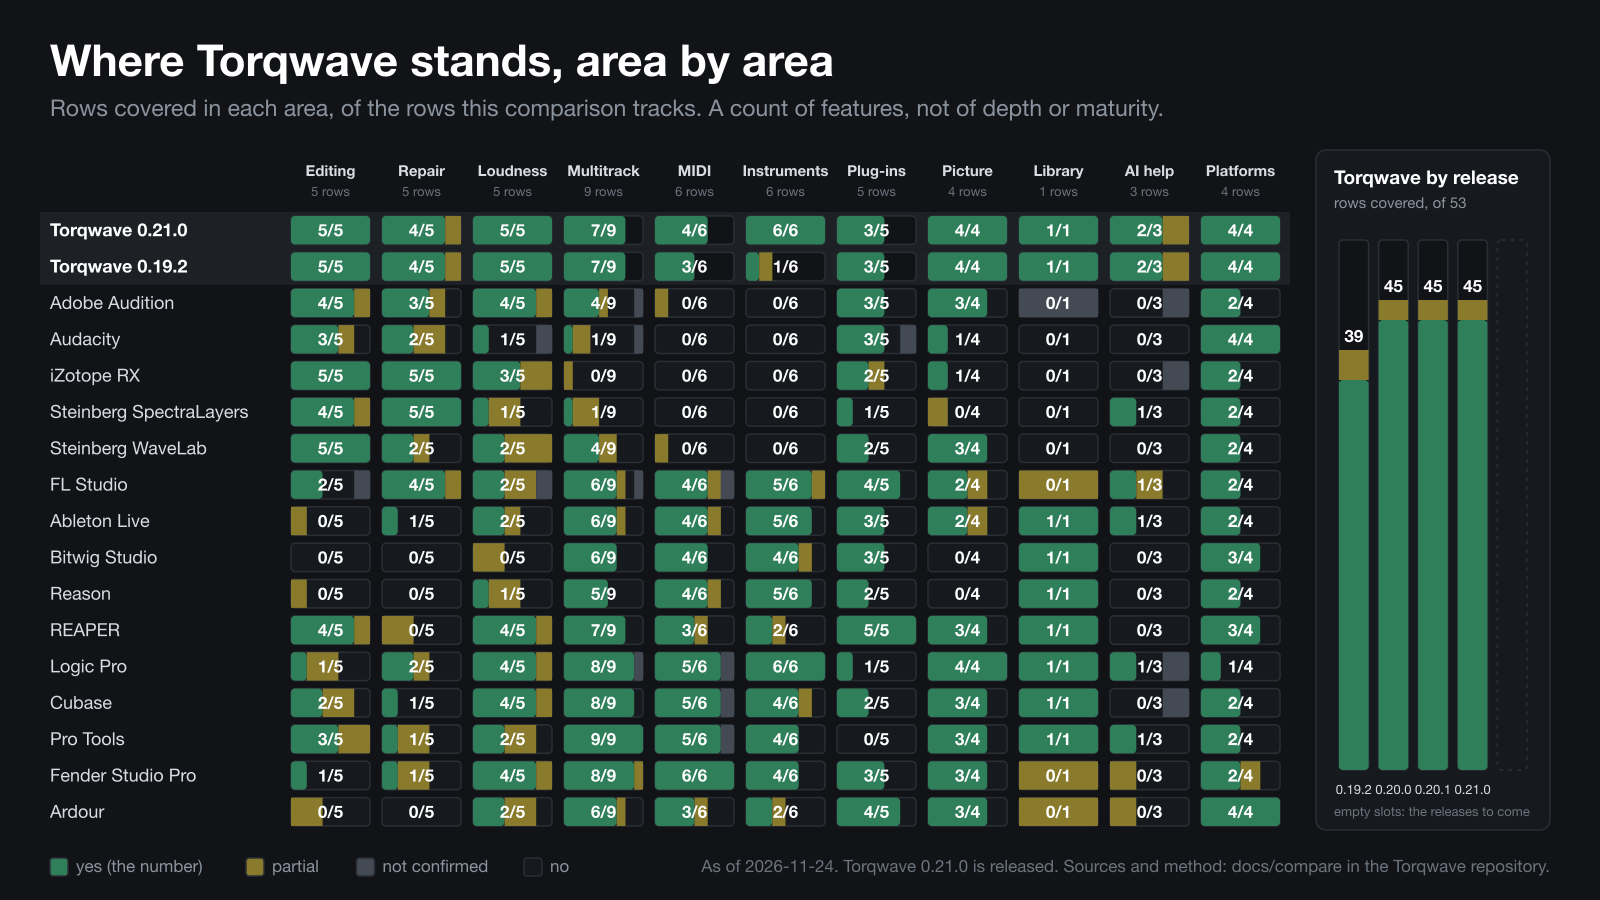
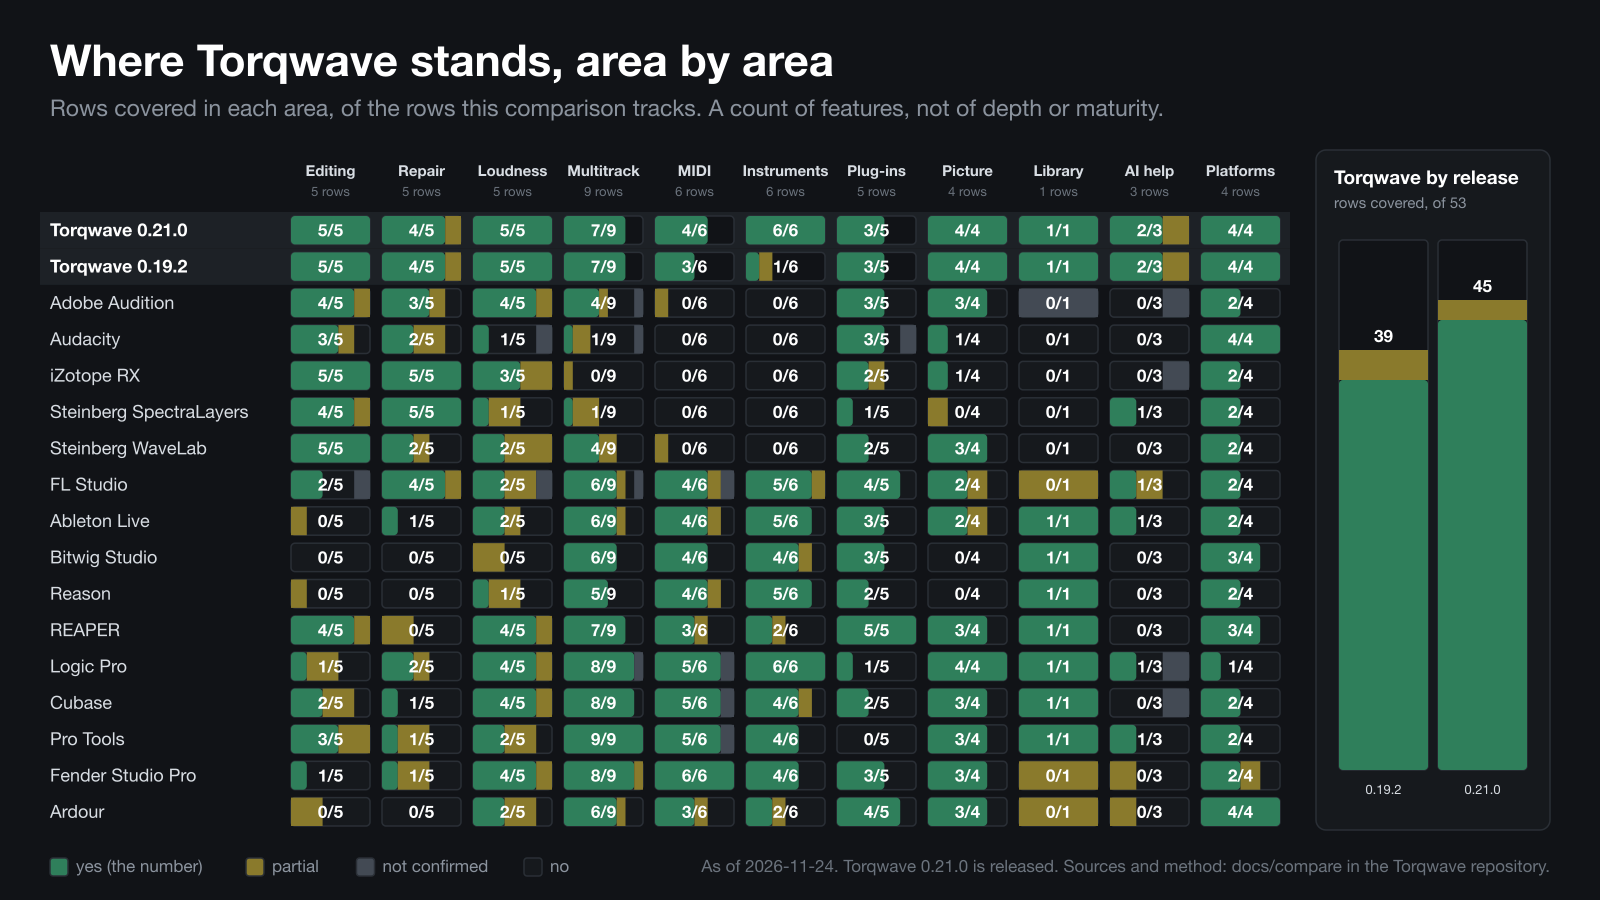
Compare: the release panel shows announced releases only (0.19.2 and 0.21.0)

Changed region(s): [[0.8438, 0.3111, 0.9688, 0.9022]]

diff --git a/docs/compare/generate.py b/docs/compare/generate.py
@@ -240,12 +240,17 @@ def graphic_whole(defs, snap):
     return s.save(f"{len(defs['matrices']) + 3}-the-whole-matrix.svg"), h
 
 
-def trend_points(defs, snaps):
+def trend_points(defs, snaps, announced_only=False):
+    """Torqwave's coverage by release. With announced_only, a release whose snapshot says
+    "announced": false is left out: the graphic shows the releases people were told about, and
+    MATRIX.md keeps them all."""
     rows = all_rows(defs)
     pts = []
     for i, snap in enumerate(snaps):
         if i == 0 and "torqwave_prev" in snap["products"]:
             pts.append((snap["products"]["torqwave_prev"]["version"], coverage(snap["products"]["torqwave_prev"]["cells"], rows)))
+        if announced_only and snap.get("announced") is False:
+            continue
         pts.append((snap["products"]["torqwave"]["version"], coverage(snap["products"]["torqwave"]["cells"], rows)))
     return pts, len(rows)
 
@@ -285,13 +290,13 @@ def graphic_standing(defs, snaps):
                 s.rect(x + bw - wu, by, wu, bh, LINE2, 0)
             s.text(x + bw / 2, by + bh / 2 + 6, f'{c["yes"]}/{n}', fs - 1, WHITE, "middle", "bold")
     # the trend across releases
-    pts, total = trend_points(defs, snaps)
+    pts, total = trend_points(defs, snaps, announced_only=True)
     px = gx + len(defs["groups"]) * cw + 30
     pw = W - 50 - px
     s.rect(px, top, pw, bottom - top, SURFACE, 10, LINE)
     s.text(px + 18, top + 34, "Torqwave by release", 19, WHITE, weight="bold")
     s.text(px + 18, top + 58, f"rows covered, of {total}", 15, DIM)
-    slots = max(4, len(pts) + 1)
+    slots = max(2, len(pts))   # the releases shown, side by side: no empty slots
     shown = pts[-slots:]
     bx0, by0, bh = px + 18, top + 90, bottom - top - 150
     bw = (pw - 36) / slots
@@ -307,7 +312,6 @@ def graphic_standing(defs, snaps):
             s.text(x + (bw - 10) / 2, by0 + bh + 24, ver, 13, TEXT, "middle")
         else:
             s.rect(x, by0, bw - 10, bh, "none", 4, LINE, "4 5")
-    s.text(px + 18, bottom - 14, "empty slots: the releases to come", 13, FAINT)
     # legend
     x = 50
     for col, word in (("#2f7f5b", "yes (the number)"), ("#8a7a2c", "partial"), (LINE2, "not confirmed"), (SURFACE, "no")):

diff --git a/docs/announcements/ANNOUNCEMENT-0.21.0.md b/docs/announcements/ANNOUNCEMENT-0.21.0.md
@@ -164,7 +164,7 @@ Torqwave's editor: a stereo file as waveform and spectrogram, the time-view stri
 For graphic 5, `5-where-torqwave-stands.png`:
 
 ```alt
-A dark chart titled "Where Torqwave stands, area by area". A grid with a row for each of seventeen products (Torqwave 0.21.0, Torqwave 0.19.2, Adobe Audition, Audacity, iZotope RX, Steinberg SpectraLayers, Steinberg WaveLab, FL Studio, Ableton Live, Bitwig Studio, Reason, REAPER, Logic Pro, Cubase, Pro Tools, Fender Studio Pro, Ardour) and a column for each of eleven areas (editing, repair, loudness, multitrack, MIDI, instruments, plug-ins, picture, library, AI help, platforms). Each cell gives how many of the area's rows the product covers. A panel at the right shows Torqwave's rows covered by release: 39 of 53 for 0.19.2, and 45 for each of 0.20.0, 0.20.1 and 0.21.0. A line under the title says it is a count of features, not of depth or maturity.
+A dark chart titled "Where Torqwave stands, area by area". A grid with a row for each of seventeen products (Torqwave 0.21.0, Torqwave 0.19.2, Adobe Audition, Audacity, iZotope RX, Steinberg SpectraLayers, Steinberg WaveLab, FL Studio, Ableton Live, Bitwig Studio, Reason, REAPER, Logic Pro, Cubase, Pro Tools, Fender Studio Pro, Ardour) and a column for each of eleven areas (editing, repair, loudness, multitrack, MIDI, instruments, plug-ins, picture, library, AI help, platforms). Each cell gives how many of the area's rows the product covers. A panel at the right shows Torqwave's rows covered by release: 39 of 53 for 0.19.2 and 45 for 0.21.0. A line under the title says it is a count of features, not of depth or maturity.
 ```
 
 For graphics 2, 3 and 4, `2-against-the-editors.png`, `3-against-the-daws-1.png` and `4-against-the-daws-2.png`:

diff --git a/docs/compare/README.md b/docs/compare/README.md
@@ -66,6 +66,6 @@ The cells marked `not confirmed` are listed in MATRIX.md under "Cells not confir
 
 ## 0.21.0
 
-- 0.21.0 is the first announced release since 0.19.2, so its graphics set it against 0.19.2. 0.20.0 and 0.20.1 keep their snapshots and their bars in the trend.
+- 0.21.0 is the first announced release since 0.19.2, so its graphics set it against 0.19.2. 0.20.0 and 0.20.1 keep their snapshots, marked `"announced": false`: the graphic's panel of Torqwave by release shows announced releases only (0.19.2 and 0.21.0), and MATRIX.md lists them all.
 - It adds a Modern type for 21 of Basic Drums' sounds, five kits and fourteen sequence presets, and corrects the Maximizer, Click and Pop Repair and Repair Clipping. No row changed its value: the rows already said yes for built-in drums, factory patterns, a limiter and click repair, so Torqwave's counts are the same as 0.20.1's (45 of 53). The notes of the drums, factory patterns and presets rows carry the new numbers.
 - The other products' cells were not read again for it: they are as read on 2026-11-23.
